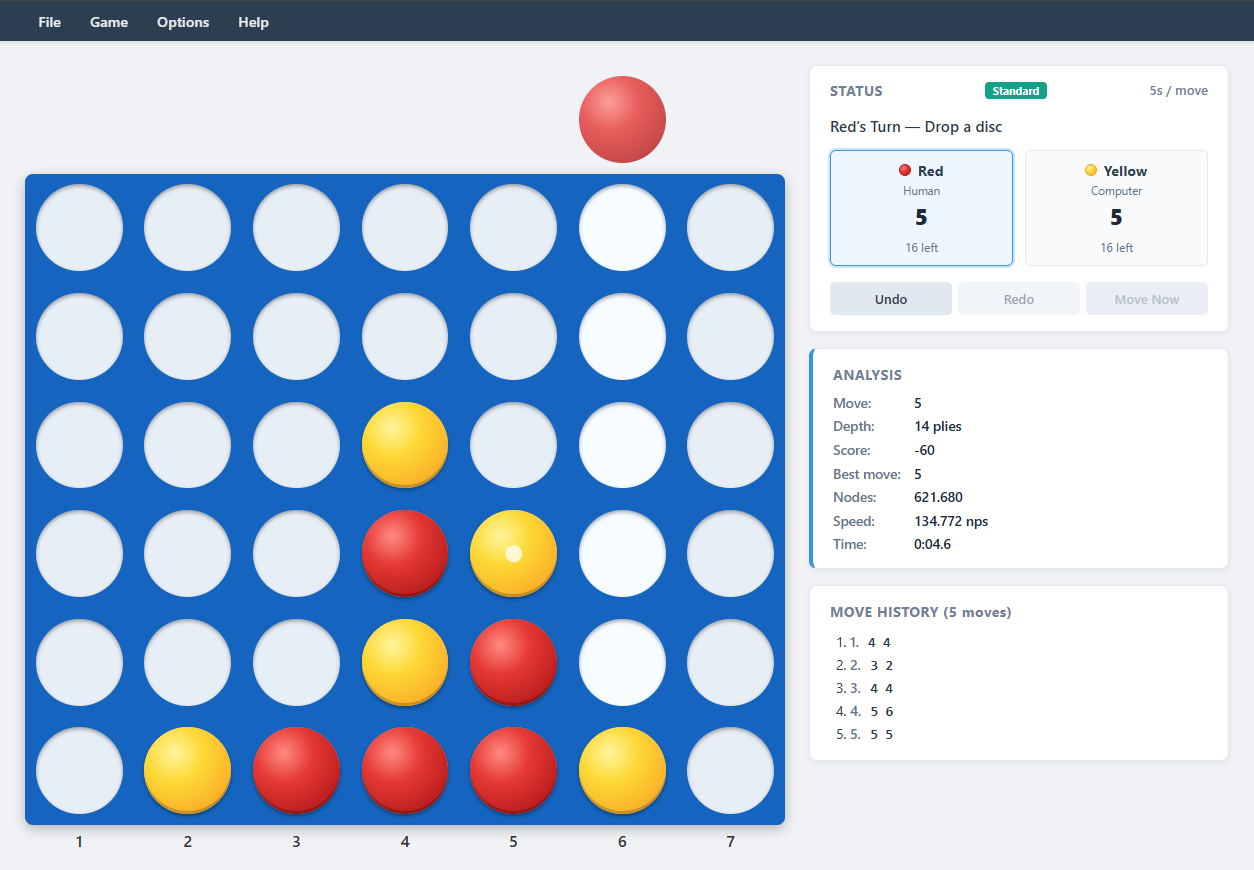
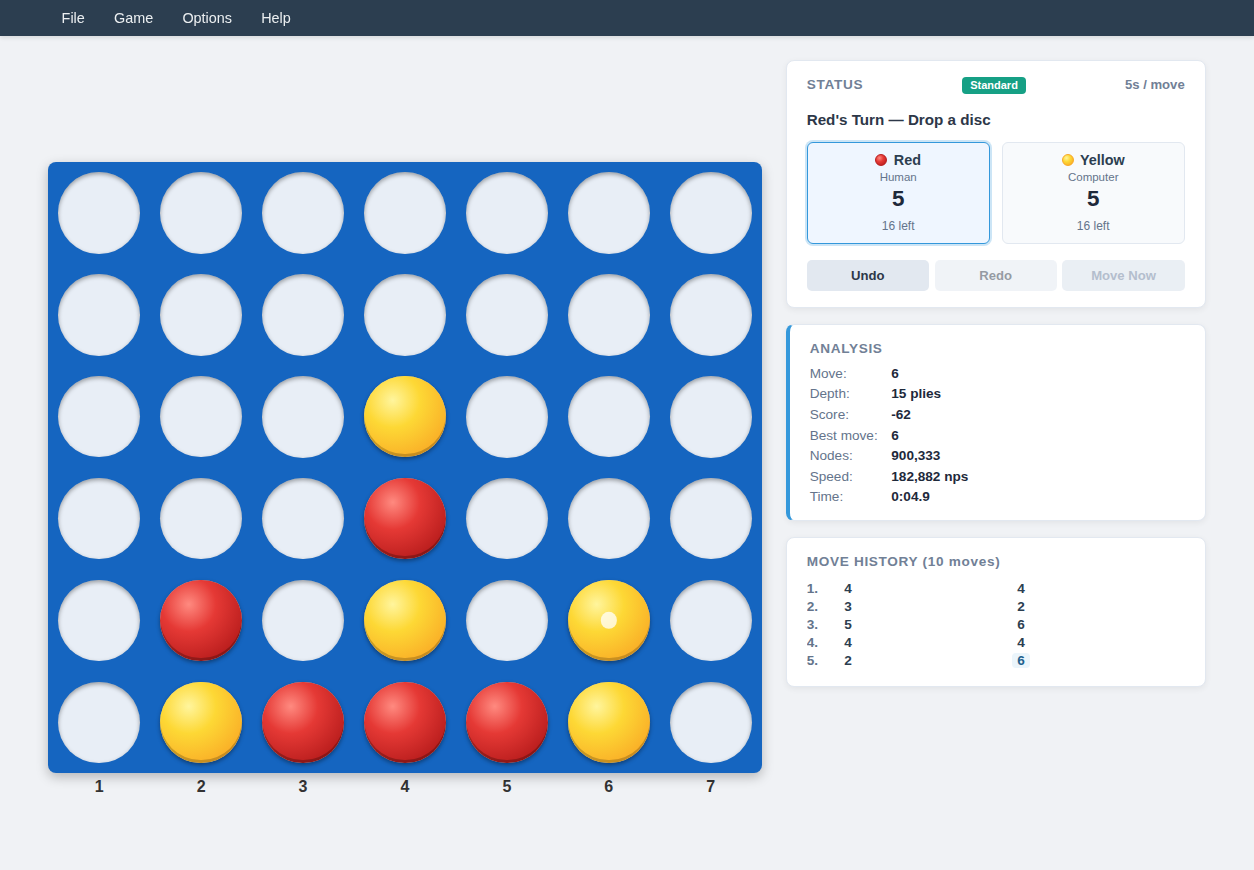
Refresh docs for the GameShell GUI and recent fixes
- Brain docs: GUI chapter, app integration, time control (solver soft
  limit) and glossary match the current code; fixed the sequence diagram
  in 12 and the layout diagram in 13.
- The spec link points at GameShell; new gui.png and gui-settings.png.
- GameShell 7f1c70d: formulas in headings keep their braces.

diff --git a/docs/brain/13-gui-and-settings.md b/docs/brain/13-gui-and-settings.md
@@ -16,21 +16,21 @@ This chapter documents the visual layout, menu commands, settings configuration,
 
 ```mermaid
 graph TD
-    subgraph UI Layout
-        MenuBar["Menu Bar &amp; Mobile Drawer<br/>File • Game • Options • Help"]
+    MenuBar["Menu Bar &amp; Mobile Drawer<br/>File • Game • Options • Help"]
+    Board["Interactive 7x6 Gravity Board Canvas<br/>7 Columns • Disc Drop Animation • Hover Previews • Winning Ring • Last Move Dot"]
+    subgraph Side["Side panels: right of the board (below it on narrow or portrait screens)"]
         StatusPanel["Status Header &amp; Turn Banner<br/>STATUS (Crimson when modified) • Variant Badge • Thinking Limits • Turn Banner"]
         Scoreboard["Dual-Card Player Scoreboard<br/>4 Layers: Swatch/Name/Clock • Role • Discs Placed Count • Discs in Reserve"]
         QuickActions["Quick Action Bar<br/>[Undo] • [Redo] • [Move Now]"]
-        Board["Interactive 7x6 Gravity Board Canvas<br/>7 Columns • Disc Drop Animation • Hover Previews • Winning Ring • Last Move Dot"]
         Analysis["Real-Time AI Analysis Panel<br/>Move • Depth • Score • Best Move • Nodes • Speed • Time"]
-        History["Move History Card<br/>Rounds • Red Moves • Yellow Moves • Auto-Scroll"]
+        History["Move History Card<br/>Rounds • Red Moves • Yellow Moves • Latest Highlighted • Auto-Scroll"]
     end
 
+    MenuBar --> Board
     MenuBar --> StatusPanel
     StatusPanel --> Scoreboard
     Scoreboard --> QuickActions
-    QuickActions --> Board
-    Board --> Analysis
+    QuickActions --> Analysis
     Analysis --> History
 ```
 
@@ -70,7 +70,7 @@ The application header features a standardized 4-menu hierarchy providing struct
 * *(Separator)*
 * **Switch sides:** Allows the human player to swap colors with the computer mid-match during their turn. The game state and move history are preserved, the match is marked modified (`IsGameModified = true`), and the computer immediately begins thinking if it becomes its turn.
 * *(Separator)*
-* **Settings...:** Opens the modal Game Settings dialog to configure engine thinking limits, endgame solver threshold, and opening book usage.
+* **Settings... (`F2` in the web version):** Opens the modal Game Settings dialog to configure engine thinking limits, endgame solver threshold, and opening book usage.
 
 ### 3. Options Menu
 * **Analysis (`Ctrl+A`):** Toggles the visibility of the real-time AI search analysis side panel.
@@ -89,11 +89,10 @@ The application header features a standardized 4-menu hierarchy providing struct
 ### 4. Help Menu
 * **User guide (`F1`):** Opens this chapter directly, providing immediate access to interface instructions, settings explanations, and shortcut tables.
 * **Rules & Documentation (`Shift+F1`):** Opens the complete Connect 4 Brain Architecture and Rules manual (`/docs` in the web client).
-* *(Separator)*
 * **About Connect 4...:** Displays engine version, author credits (Claus Pedersen), and architectural background.
 
 ### Responsive Mobile Navigation Drawer ($\le 768\text{px}$)
-On mobile devices and narrow viewports ($\le 768\text{px}$), the horizontal desktop menu bar transforms into a compact header featuring the application brand (`Connect 4`) and a hamburger button (`☰`). Tapping the hamburger slides out an off-canvas navigation drawer (`.mobile-drawer`) with a dimmed backdrop overlay, grouping File, Game, Options, and Help actions into touch-friendly tap targets ($\ge 44\text{px}$).
+On mobile devices and narrow viewports ($\le 768\text{px}$), the horizontal desktop menu bar transforms into a compact header featuring the application brand (`Connect 4`) and a hamburger button (`☰`). Tapping the hamburger slides out an off-canvas navigation drawer (`.mobile-drawer`) with a dimmed backdrop overlay, grouping File, Game, Options, and Help actions into touch-friendly tap targets ($\ge 44\text{px}$). The drawer opens from the right; `Escape` or the ✕ button closes it.
 
 ---
 
@@ -169,7 +168,7 @@ graph TD
 
 ### 1. Computer Thinking Limits (Three Modes)
 * **Fixed Depth ($1\dots 20$ plies):** Constant deterministic search depth. The computer evaluates all variations up to the specified ply count regardless of time taken.
-* **Time per Move ($1\dots 60$ seconds):** Constant thinking budget per turn. The engine uses soft limits ($2/3$ time) to conclude iterations safely before hard timeout interrupts.
+* **Time per Move ($1\dots 60$ seconds):** Constant thinking budget per turn. The engine uses soft limits ($2/3$ time) to conclude iterations safely before hard timeout interrupts; when the endgame solver will run, the search stops at the soft limit so the solver gets the last third.
 * **Time per Game ($1\dots 60$ minutes):** Total match chess clock bank. The engine dynamically calculates move time based on remaining clock time and game phase.
 
 ### 2. Endgame Solver Threshold
@@ -226,16 +225,16 @@ The move history panel gives players a readable transcript of the match, groupin
 
 ```
 ┌─────────────────────────────────┐
-│ MOVE HISTORY (3 moves)          │
+│ MOVE HISTORY (5 moves)          │
 ├─────────────────────────────────┤
 │ 1. 4    4                       │
 │ 2. 4    3                       │
-│ 3. 5    (thinking...)           │
+│ 3. 5                            │
 └─────────────────────────────────┘
 ```
 
-* **Round Numbering:** Numbered sequentially (`1.`, `2.`, `3.`), with Red's column in column 1 and Yellow's column in column 2.
-* **Auto-Scroll:** As new moves are committed, the list container automatically scrolls its viewport to the latest move row.
+* **Round Numbering:** Each row is one round: the round number (`1.`, `2.`, `3.`), Red's column, then Yellow's column. The header counts the individual moves of both players (`1 move`, `5 moves`).
+* **Latest move & Auto-Scroll:** The newest move is highlighted, and the list scrolls itself to keep it in view.
 
 ---
 
@@ -245,14 +244,17 @@ The move history panel gives players a readable transcript of the match, groupin
 |---|---|---|
 | `F1` | Global | Open **User guide** (this chapter) |
 | `Shift+F1` | Global | Open **Rules & Documentation** (architectural manual) |
+| `F2` | Global (web) | Open the **Settings** dialog |
+| `Ctrl+N` | Global | **New Game** (asks before abandoning a game in progress) |
 | `Ctrl+O` | Global | Open saved game record (`.txt`) |
 | `Ctrl+S` | Global | Save current match record |
 | `Ctrl+A` | Global | Toggle **AI Analysis Panel** visibility |
 | `Ctrl+M` | Engine | **Move Now:** Stop AI calculation and play best candidate |
 | `Ctrl+Z` | Board | **Undo** last move (refunds chess clock time) |
 | `Ctrl+Y` | Board | **Redo** previously undone move |
+| `Escape` | Menus (web) | Close an open menu or the mobile drawer |
 
-*(Note: Settings dialog is accessed via menu **Game $\rightarrow$ Settings...**; Undo/Redo are available via Quick Action buttons and `Ctrl+Z`/`Ctrl+Y`).*
+*(Note: Settings is also in the menu **Game $\rightarrow$ Settings...**; Undo/Redo are available via Quick Action buttons and `Ctrl+Z`/`Ctrl+Y`).*
 
 ---
 

diff --git a/docs/brain/01-overview.md b/docs/brain/01-overview.md
@@ -13,7 +13,7 @@ The solution [Connect4.Net.slnx](../../Connect4.Net/Connect4.Net.slnx) has five 
 | `Connect4.Engine` | Class library (`net10.0`) | Board, rules, game record, evaluation, search, endgame solver, opening book |
 | `Connect4.App` | Class library (`net10.0`) | View models (CommunityToolkit.Mvvm), settings, service interfaces, generated sounds |
 | `Connect4.WPF` | WPF app (`net10.0-windows`) | The desktop window, dialogs and services |
-| `Connect4.Web` | Blazor WebAssembly (`net10.0`) | The web version; the engine runs in a Web Worker |
+| `Connect4.Web` | Blazor WebAssembly (`net10.0`) | The web version; the engine runs in a Web Worker, and the GUI frame comes from the shared GameShell library (git submodule `external/GameShell`, chapter 12) |
 | `Connect4.Tools` | Console app (`net10.0`) | `book generate` and `book verify` (chapter 11), `endgame measure` (chapter 09) |
 | `Connect4.Engine.Tests` | xUnit | Engine tests, including Pascal Pons' test positions (173 passing tests) |
 | `Connect4.App.Tests` | xUnit (`net10.0-windows`) | View model tests with fake services (53 passing tests; 226 total passing tests across the solution) |
@@ -24,6 +24,7 @@ flowchart LR
     Web["Connect4.Web"] --> App
     WPF --> Engine["Connect4.Engine"]
     Web --> Engine
+    Web --> Shell["GameShell<br/>(external/GameShell)"]
     App --> Engine
     Tools["Connect4.Tools"] --> Engine
 ```

diff --git a/docs/brain/12-app-integration.md b/docs/brain/12-app-integration.md
@@ -25,6 +25,8 @@ flowchart TD
     Services --> Engine
 ```
 
+In the web app the page frame (menu bar, mobile drawer, keyboard shortcuts, status panel and player cards, analysis panel, move history), the dialog frame and the `/docs` viewer come from the shared Razor class library [GameShell](https://github.com/cjp-dev/GameShell) (git submodule `external/GameShell`; clone with `--recurse-submodules`). Connect 4 adds its menus, the board, the Settings form (`SettingsForm.razor`), `BrowserDialogService` (on top of GameShell's `ShellDialogs`) and `AnalysisAdapter` (shows `AnalysisViewModel` in GameShell's analysis panel).
+
 ## The game loop
 
 `MainViewModel` ([MainViewModel.cs](../../Connect4.Net/Connect4.App/ViewModels/MainViewModel.cs)):
@@ -81,7 +83,7 @@ sequenceDiagram
     W-->>JS: result JSON
     JS-->>Host: the call returns
     Host-->>VM: SearchResult
-    Note over VM,W: Move Now or Stop: signal via SharedArrayBuffer stops the worker cooperatively;<br/>fallback terminates and restarts if not answered within 300 ms.
+    Note over VM,W: Move Now or Stop: signal via SharedArrayBuffer stops the worker cooperatively.<br/>Fallback: terminate and restart it if not answered within 300 ms.
 ```
 
 ## The analysis panel

diff --git a/docs/brain/09-endgame-solver.md b/docs/brain/09-endgame-solver.md
@@ -4,7 +4,7 @@
 
 ## In short
 
-Near the end of the game the computer can work out the exact result. `EndgameSolver` ([EndgameSolver.cs](../../Connect4.Net/Connect4.Engine/Endgame/EndgameSolver.cs)) is Pascal Pons' C++ solver, ported 1:1 without its opening book. It searches to the end of the game with null-window alpha-beta and its own hash table. The heuristic search runs first and always gives a move; the solver is then tried with the time that is left.
+Near the end of the game the computer can work out the exact result. `EndgameSolver` ([EndgameSolver.cs](../../Connect4.Net/Connect4.Engine/Endgame/EndgameSolver.cs)) is Pascal Pons' C++ solver, ported 1:1 without its opening book. It searches to the end of the game with null-window alpha-beta and its own hash table. The heuristic search runs first and always gives a move; the solver is then tried with the rest of the time (in the time modes the last third, chapter 10).
 
 ## Scores
 

diff --git a/docs/brain/10-time-control.md b/docs/brain/10-time-control.md
@@ -42,10 +42,10 @@ flowchart LR
     Start["0.0 s<br/>Move starts"] --> Search["Heuristic Search<br/>Depth 1, 2, 3, ..."]
     Search --> Soft["3.33 s (Soft limit: 2/3)<br/>Current depth abandoned"]
     Soft --> Solver["Endgame Solver<br/>(if empty &le; 30)"]
-    Solver --> Hard["5.0 s (Hard limit)<br/>Hard timeout stops search"]
+    Solver --> Hard["5.0 s (Hard limit)<br/>Solver stopped if not finished"]
 ```
 
-The depth that is running at the soft limit may finish or be abandoned at the hard limit; the solver gets what is left, at most the last third.
+Without the solver, the depth that is running at the soft limit may finish, or be abandoned at the hard limit. With the solver, as here, it is abandoned at the soft limit, so the solver always gets the last third (1.67 s).
 
 ## Move Now and stopping
 

diff --git a/docs/brain/14-glossary.md b/docs/brain/14-glossary.md
@@ -36,7 +36,7 @@
 | **Ply** | One move by one side. |
 | **Principal variation (PV)** | The expected line of play, read from the hash table; shown as "Line". |
 | **PVS** | Principal variation search: the first move with the full window, the others with a null window first. |
-| **Soft limit** | The time after which no new depth is started (chapter 10). |
+| **Soft limit** | The time after which no new depth is started; when the endgame solver follows, the running depth is also abandoned there (chapter 10). |
 | **Stacked threats** | Two threats of the same player on top of each other in one column. |
 | **Strong solve** | A solve that finds the exact score, including how many moves the win or loss takes (chapter 09). |
 | **Threat** | An empty cell where a player's disc would complete a four. |

diff --git a/docs/brain/07-search.md b/docs/brain/07-search.md
@@ -73,7 +73,7 @@ Negamax writes the same with every score from the side to move, so each level ne
 
 `Negamax(position, depth, alpha, beta)` is fail-soft; the child is searched with the window (−β, −α):
 
-1. Count the node; every 1 024 nodes check cancellation, Move Now and the hard time limit.
+1. Count the node; every 1 024 nodes check cancellation, Move Now and the hard time limit (in the time modes the soft limit when the endgame solver follows, chapter 10).
 2. If the side to move can win at once: return $\text{Win} - (\text{Moves} + 1)$.
 3. `NonLosingMoves()`; if there is none, the opponent wins next move: return $-(\text{Win} - (\text{Moves} + 2))$.
 4. With 40 or more discs and a non-losing move, the game is a draw: return 0.

diff --git a/docs/brain/15-references.md b/docs/brain/15-references.md
@@ -19,7 +19,7 @@
 
 - The **Stello** documentation – the Othello program whose search framework, time control and app this project reuses.
 - [Connect 4 porting documentation.md](https://github.com/cjp-dev/Connect-4/blob/main/Plans/Connect%204%20porting%20documentation.md) – how the C++ code was ported, part by part.
-- [general-game-gui-specification.md](https://github.com/cjp-dev/Connect-4/blob/main/Plans/general-game-gui-specification.md) – Tournament GUI specification and standards adapted by Connect 4.
+- [general-game-gui-specification.md](https://github.com/cjp-dev/GameShell/blob/main/docs/general-game-gui-specification.md) – the GUI specification (version 1.1) shared by the games, in the shared GameShell library.
 
 ---
 
